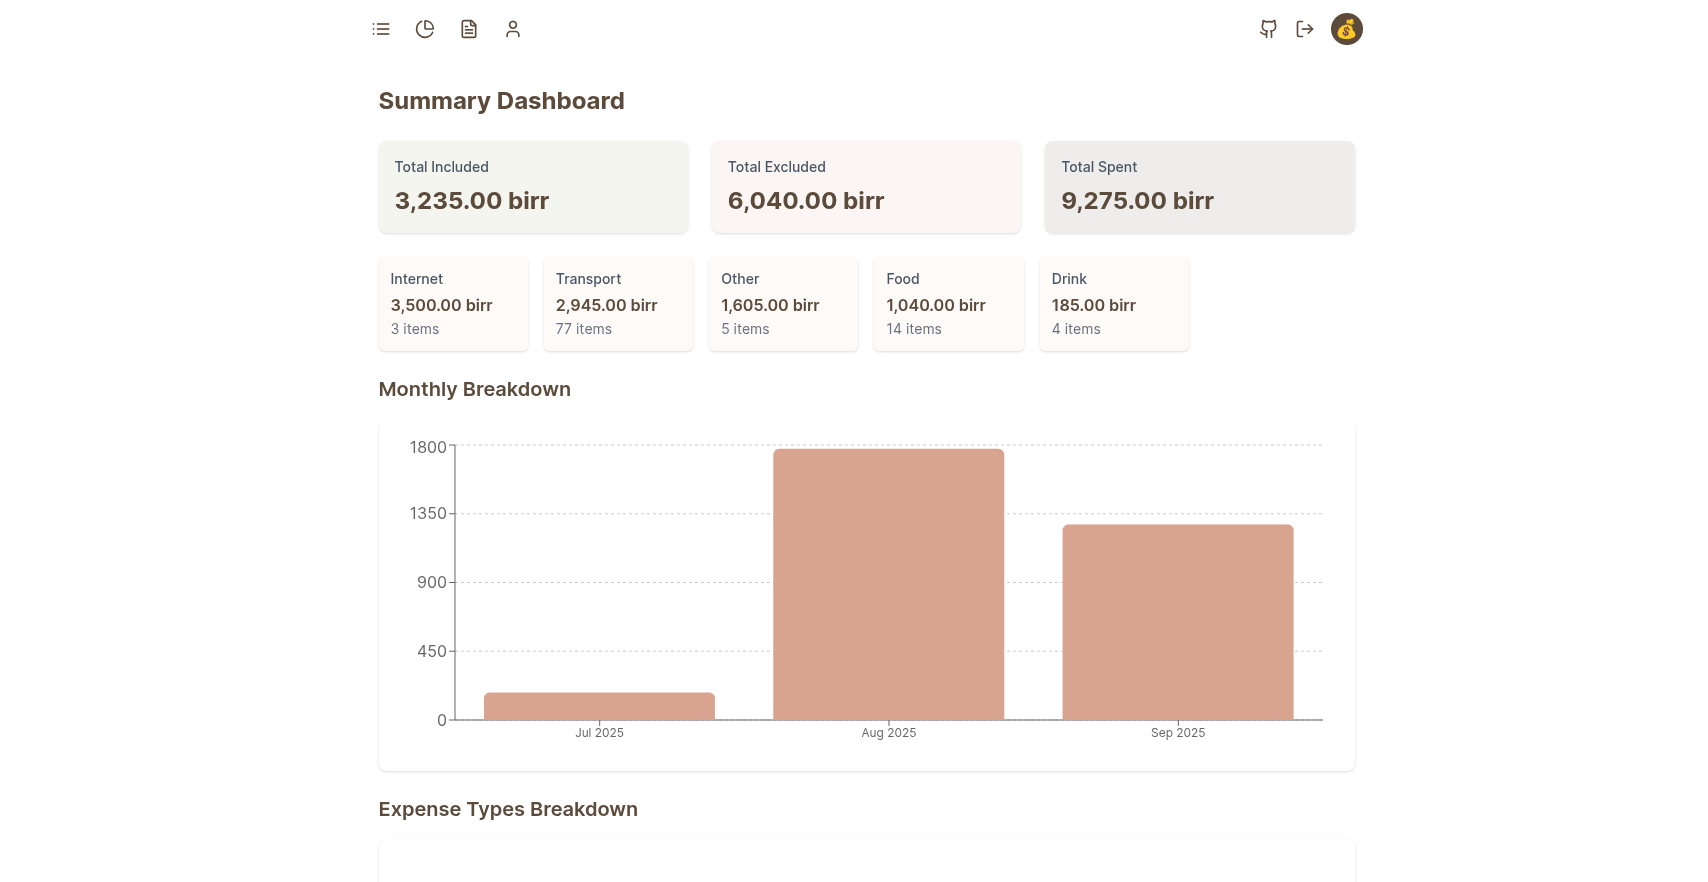
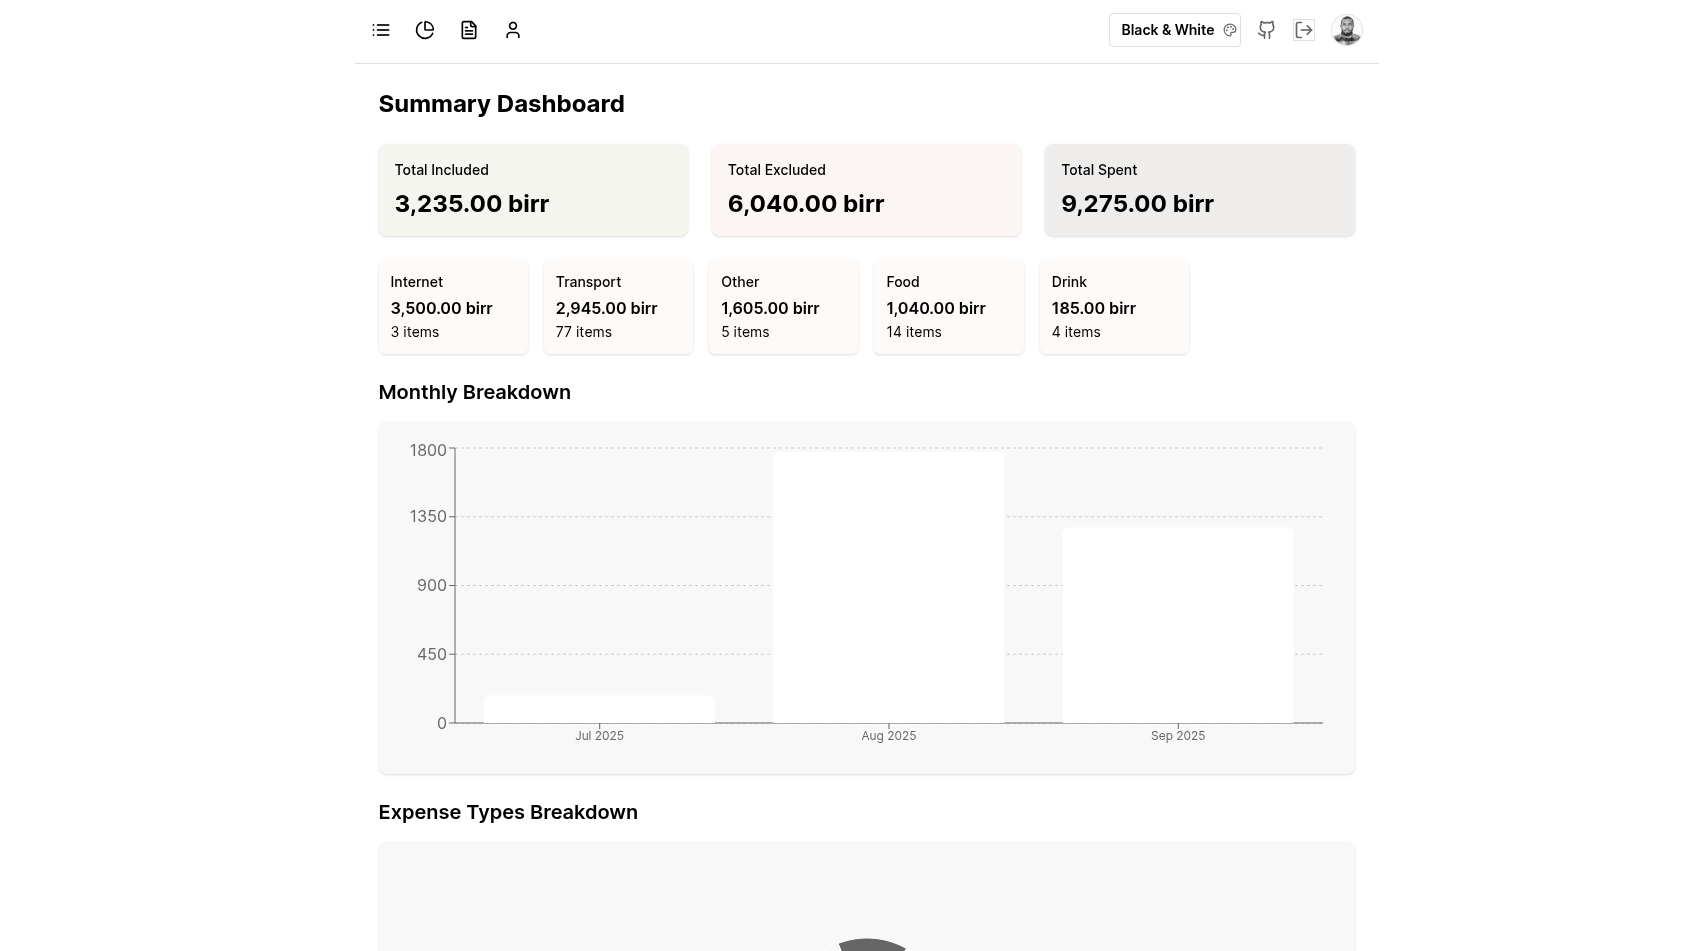
feat: update README with new dashboard images and enhance theme selector options

diff --git a/frontend/src/components/ThemeSelector.tsx b/frontend/src/components/ThemeSelector.tsx
@@ -38,8 +38,11 @@ export default function ThemeSelector() {
             <select
                 value={theme}
                 onChange={(e) => setTheme(e.target.value as Theme)}
-                className="appearance-none bg-transparent border border-[var(--theme-border)] rounded px-2 py-1 pr-6 text-sm text-[var(--theme-text)] hover:bg-[var(--theme-hover)] transition-colors cursor-pointer"
+                className="appearance-none bg-transparent border border-[var(--theme-border)] rounded px-1 py-1 pr-6 text-sm hover:bg-[var(--theme-hover)] transition-colors cursor-pointer text-[var(--theme-text)] md:px-3 md:py-1.5 md:pr-8"
             >
+                <option value="" disabled className="md:hidden">
+                    Theme
+                </option>
                 {themeOptions.map((option) => (
                     <option key={option.value} value={option.value}>
                         {option.label}

diff --git a/README.md b/README.md
@@ -3,5 +3,6 @@
 
 ![Homepage](./preview/home.png)
 ![Mini Dashboard](./preview/dashboard.png)
-![Template](./preview/template.png)
+![Mini Dashboard 2](./preview/dashboard2.png)
+![Template](./preview/templates.png)
 ![Profile](./preview/profile.png)
